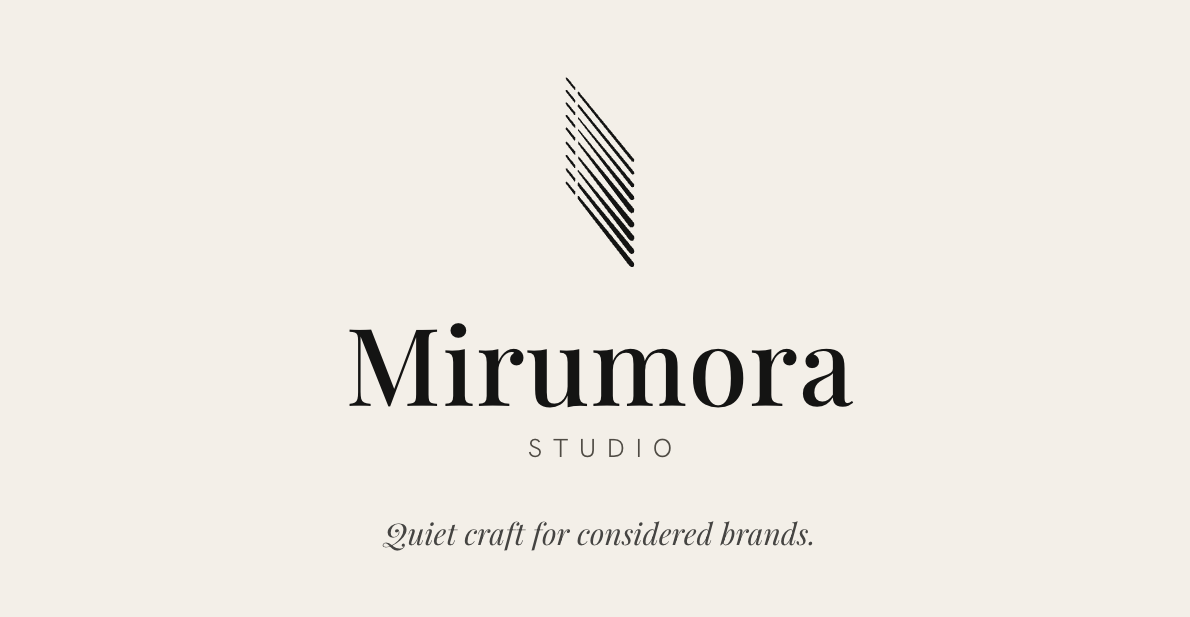
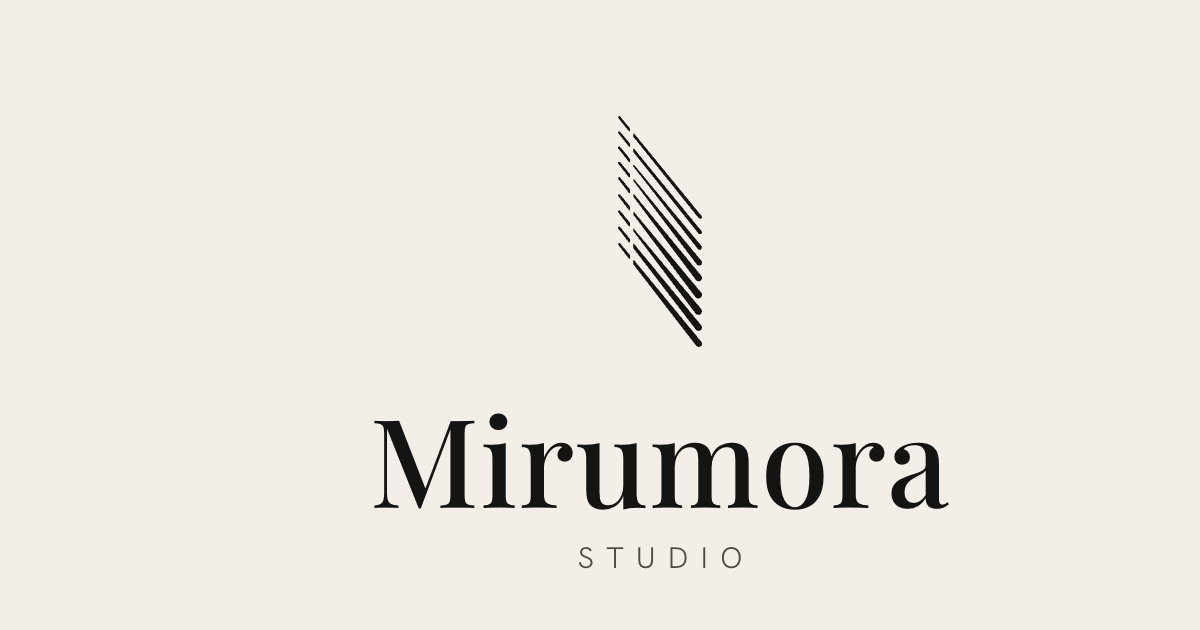
Redesign homepage: minimal centered brand + grain + toggle
Rework the landing into the simple, elegant composition: the logo mark
centered above the Mirumora / STUDIO wordmark, with the card ring sitting
below the text. Drop the 'Quiet craft for considered brands' tagline
(page, meta, OG, and share image).

- Add a manual light/dark toggle (bottom-right) via a data-theme
  attribute; defaults to light/cream and persists in localStorage. Grain
  + water colours follow the active theme; head guard avoids a flash.
- Keep the generated stipple grain and the water-plane card-ring physics.
- Update contact email to [email redacted] (landing menu + agents page).
- Regenerate assets/share.png to match (no tagline).

Changed region(s): [[0.2798, 0.154, 0.8084, 0.893]]

diff --git a/index.html b/index.html
@@ -3,27 +3,52 @@
 <head>
 <meta charset="UTF-8">
 <meta name="viewport" content="width=device-width, initial-scale=1.0, viewport-fit=cover">
-<title>Mirumora — Quiet craft for considered brands.</title>
-<meta name="description" content="Mirumora Studio — quiet craft for considered brands.">
+<title>Mirumora Studio</title>
+<meta name="description" content="Mirumora Studio">
 <meta name="theme-color" content="#141413" media="(prefers-color-scheme: dark)">
 <meta name="theme-color" content="#f3efe8" media="(prefers-color-scheme: light)">
 <link rel="icon" href="assets/Logo.svg" type="image/svg+xml">
 <meta property="og:type" content="website">
 <meta property="og:url" content="https://novadecklabs.github.io/mirumora/">
 <meta property="og:title" content="Mirumora Studio">
-<meta property="og:description" content="Quiet craft for considered brands.">
+<meta property="og:description" content="Mirumora Studio">
 <meta property="og:image" content="https://novadecklabs.github.io/mirumora/assets/share.png">
 <meta name="twitter:card" content="summary_large_image">
 <meta name="twitter:title" content="Mirumora Studio">
-<meta name="twitter:description" content="Quiet craft for considered brands.">
+<meta name="twitter:description" content="Mirumora Studio">
 <meta name="twitter:image" content="https://novadecklabs.github.io/mirumora/assets/share.png">
 <link rel="preconnect" href="https://fonts.googleapis.com">
 <link rel="preconnect" href="https://fonts.gstatic.com" crossorigin>
 <link href="https://fonts.googleapis.com/css2?family=Hanken+Grotesk:wght@300;400;500&family=Playfair+Display:ital,wght@0,400;0,500;0,600;1,400;1,500&display=swap" rel="stylesheet">
+<script>try{if(localStorage.getItem('mir-theme')==='dark')document.documentElement.setAttribute('data-theme','dark');}catch(e){}</script>
 
 <style>
 :root{
-  color-scheme: dark light;
+  color-scheme: light dark;
+  /* ── Light (cream) — the default ── */
+  --ink:        #f3efe8;
+  --bone:       #141413;
+  --bone-dim:   #4f4b44;
+  --muted:      #756f65;
+  --line:       #cec7ba;
+  --line-warm:  #a59d90;
+  --vignette:   radial-gradient(120% 90% at 50% 28%, rgba(255,255,255,0.56) 0%, transparent 48%, rgba(70,61,48,0.12) 100%);
+  --grain-opacity: 0.20;
+  --cursor-line: rgba(20,20,19,0.90);
+  --cta-line: rgba(20,20,19,0.78);
+  --cta-fill: rgba(20,20,19,0.07);
+  --card-lightness: 39%;
+  --card-hot-lightness: 28%;
+  --card-fill-a: rgba(255,255,255,0.54);
+  --card-fill-b: rgba(220,214,202,0.88);
+  --card-shadow: rgba(70,61,48,0.22);
+  --card-inset: rgba(255,255,255,0.62);
+  --logo-filter: none;
+  --water-blend: multiply;
+}
+
+:root[data-theme="dark"]{
+  /* ── Dark (ink) ── */
   --ink:        #141413;
   --bone:       #f3efe8;
   --bone-dim:   #b6b0a3;
@@ -35,8 +60,6 @@
   --cursor-line: rgba(243,239,232,0.95);
   --cta-line: rgba(243,239,232,0.90);
   --cta-fill: rgba(243,239,232,0.10);
-  --lede: rgba(243,239,232,0.92);
-  --lede-shadow: 0 2px 18px rgba(20,20,19,0.88);
   --card-lightness: 78%;
   --card-hot-lightness: 85%;
   --card-fill-a: rgba(20,20,19,0.58);
@@ -45,32 +68,6 @@
   --card-inset: rgba(255,255,255,0.08);
   --logo-filter: invert(1) brightness(1.05);
   --water-blend: screen;
-}
-
-@media (prefers-color-scheme: light){
-  :root{
-    --ink:        #f3efe8;
-    --bone:       #141413;
-    --bone-dim:   #4f4b44;
-    --muted:      #756f65;
-    --line:       #cec7ba;
-    --line-warm:  #a59d90;
-    --vignette:   radial-gradient(120% 90% at 50% 28%, rgba(255,255,255,0.56) 0%, transparent 48%, rgba(70,61,48,0.12) 100%);
-    --grain-opacity: 0.20;
-    --cursor-line: rgba(20,20,19,0.90);
-    --cta-line: rgba(20,20,19,0.78);
-    --cta-fill: rgba(20,20,19,0.07);
-    --lede: rgba(20,20,19,0.80);
-    --lede-shadow: 0 2px 18px rgba(236,232,223,0.94);
-    --card-lightness: 39%;
-    --card-hot-lightness: 28%;
-    --card-fill-a: rgba(255,255,255,0.54);
-    --card-fill-b: rgba(220,214,202,0.88);
-    --card-shadow: rgba(70,61,48,0.22);
-    --card-inset: rgba(255,255,255,0.62);
-    --logo-filter: none;
-    --water-blend: multiply;
-  }
 }
 
 *{margin:0;padding:0;box-sizing:border-box}
@@ -241,22 +238,37 @@ body.has-custom-cursor *{ cursor: none !important; }
   justify-content: center;
 }
 
-/* top-left logo */
-.logo{
+/* bottom-right light/dark toggle */
+.theme-toggle{
   position: absolute;
-  top: 24px;
-  left: 32px;
-  width: 18px;
-  height: 49px;
-  background: url('assets/Logo.svg') no-repeat center / contain;
-  z-index: 5;
-  opacity: 0.85;
-  transition: opacity .25s ease;
-  filter: var(--logo-filter);
+  bottom: 22px;
+  right: 32px;
+  z-index: 6;
+  background: transparent;
+  border: 0;
+  color: var(--bone-dim);
+  font-family: "Hanken Grotesk", -apple-system, sans-serif;
+  font-size: 10px;
+  font-weight: 400;
+  letter-spacing: 0.28em;
+  text-transform: uppercase;
+  padding: 6px 0;
+  display: inline-flex;
+  align-items: center;
+  gap: 9px;
+  transition: color .25s ease;
 }
-.logo:hover{
-  opacity: 1;
+.theme-toggle:hover{ color: var(--bone); }
+.theme-toggle .dot{
+  width: 9px;
+  height: 9px;
+  border-radius: 50%;
+  border: 1px solid currentColor;
+  background:
+    linear-gradient(90deg, currentColor 0 50%, transparent 50% 100%);
+  transition: transform .3s cubic-bezier(.2,.8,.2,1);
 }
+:root[data-theme="dark"] .theme-toggle .dot{ transform: rotate(180deg); }
 
 /* top-right menu */
 .menu{
@@ -344,10 +356,19 @@ body.has-custom-cursor *{ cursor: none !important; }
   text-align: center;
   max-width: 760px;
   padding: 0 32px;
-  margin-top: -8vh;
+  margin-top: -18vh;
   z-index: 4;
   position: relative;
   pointer-events: none;
+  display: flex;
+  flex-direction: column;
+  align-items: center;
+}
+.hero .mark{
+  width: auto;
+  height: clamp(96px, 17vh, 168px);
+  margin-bottom: clamp(22px, 3.2vh, 38px);
+  filter: var(--logo-filter);
 }
 .hero h1{
   font-family: "Playfair Display", Georgia, serif;
@@ -364,18 +385,6 @@ body.has-custom-cursor *{ cursor: none !important; }
   letter-spacing: 0.42em;
   text-indent: 0.42em;
   color: var(--bone-dim);
-}
-.hero .lede{
-  margin-top: clamp(24px, 3.4vh, 34px);
-  font-family: "Playfair Display", Georgia, serif;
-  font-style: italic;
-  font-size: clamp(19px, 1.65vw, 22px);
-  line-height: 1.38;
-  color: var(--lede);
-  max-width: 34ch;
-  margin-left: auto;
-  margin-right: auto;
-  text-shadow: var(--lede-shadow);
 }
 
 /* ── Wheel ───────────────────────────────── */
@@ -517,24 +526,13 @@ body.has-custom-cursor *{ cursor: none !important; }
   pointer-events: none;
 }
 .anchor-bl{ left: 32px; }
-.anchor-br{
-  right: 32px;
-  font-family: "Playfair Display", Georgia, serif;
-  font-style: italic;
-  font-size: 14px;
-  letter-spacing: 0.04em;
-  text-transform: none;
-  color: var(--muted);
-}
 
 @media (max-width: 600px){
-  .logo{ top: 20px; left: 22px; width: 14px; height: 38px; }
   .menu{ top: 22px; right: 22px; }
-  .anchor{ bottom: 20px; font-size: 9px; }
+  .anchor{ bottom: 18px; font-size: 9px; }
   .anchor-bl{ left: 22px; letter-spacing: 0.24em; }
-  .anchor-br{ right: 22px; font-size: 13px; }
-  .hero{ padding: 0 22px; margin-top: -4vh; }
-  .hero .lede{ font-size: 18px; max-width: 27ch; }
+  .theme-toggle{ right: 22px; bottom: 16px; font-size: 9px; letter-spacing: 0.24em; }
+  .hero{ padding: 0 22px; margin-top: -12vh; }
   .menu-panel{ min-width: 170px; }
   .menu-panel a, .menu-panel .soon{ font-size: 20px; }
   .wheel-stage{ width: 210vw; bottom: -18vh; }
@@ -555,8 +553,6 @@ body.has-custom-cursor *{ cursor: none !important; }
 
 <div class="app">
 
-  <a class="logo" href="./" aria-label="Mirumora home" data-cta></a>
-
   <nav class="menu" id="menu">
     <button class="menu-toggle" data-cta data-menu-toggle aria-expanded="false">
       Menu <span class="arrow">›</span>
@@ -567,7 +563,7 @@ body.has-custom-cursor *{ cursor: none !important; }
       <a href="about/" data-cta data-split>About</a>
       <div class="menu-sep"></div>
       <span class="menu-meta">@mirumora</span>
-      <a href="mailto:[email redacted]" data-cta class="menu-meta">[email redacted]</a>
+      <a href="mailto:[email redacted]" data-cta class="menu-meta">[email redacted]</a>
     </div>
   </nav>
 
@@ -578,23 +574,28 @@ body.has-custom-cursor *{ cursor: none !important; }
   </div>
 
   <main class="hero">
+    <img class="mark" src="assets/Logo.svg" alt="Mirumora Studio mark" />
     <h1 data-split>Mirumora</h1>
     <p class="studio">STUDIO</p>
-    <p class="lede">Quiet craft for considered brands.</p>
   </main>
 
   <div class="anchor anchor-bl">Mirumora</div>
-  <div class="anchor anchor-br">@mirumora</div>
+
+  <button class="theme-toggle" id="themeToggle" data-cta aria-label="Toggle light or dark mode">
+    <span class="dot" aria-hidden="true"></span><span class="tlabel">Light</span>
+  </button>
 
 </div>
 
 <script>
 (function(){
-  const themeMedia = matchMedia('(prefers-color-scheme: light)');
+  const root = document.documentElement;
+  const THEME_KEY = 'mir-theme';
+  function isLight(){ return root.getAttribute('data-theme') !== 'dark'; }
 
   /* ───── Stipple grain — fine CRT static, dense but soft ───── */
   function ensureGrain(){
-    const light = themeMedia.matches;
+    const light = isLight();
     const KEY = light ? 'mir-grain-v1-light' : 'mir-grain-v1-dark';
     let url = null;
     try { url = localStorage.getItem(KEY); } catch(e){}
@@ -621,8 +622,21 @@ body.has-custom-cursor *{ cursor: none !important; }
     }
     document.body.style.setProperty('--grain', `url("${url}")`);
   }
-  ensureGrain();
-  themeMedia.addEventListener('change', ensureGrain);
+  /* ───── Theme: manual light/dark, defaults to light ───── */
+  function applyTheme(t){
+    root.setAttribute('data-theme', t);
+    try { localStorage.setItem(THEME_KEY, t); } catch(e){}
+    const label = document.querySelector('#themeToggle .tlabel');
+    if (label) label.textContent = t === 'dark' ? 'Dark' : 'Light';
+    ensureGrain();
+  }
+  let storedTheme = null;
+  try { storedTheme = localStorage.getItem(THEME_KEY); } catch(e){}
+  applyTheme(storedTheme === 'dark' ? 'dark' : 'light');
+  const themeToggle = document.getElementById('themeToggle');
+  if (themeToggle){
+    themeToggle.addEventListener('click', () => applyTheme(isLight() ? 'dark' : 'light'));
+  }
 
   const reduced = matchMedia('(prefers-reduced-motion: reduce)').matches;
   // Robust detection: only show custom cursor on devices with a primary mouse-like pointer
@@ -905,7 +919,7 @@ body.has-custom-cursor *{ cursor: none !important; }
     waterCtx.clearRect(0, 0, waterWidth, waterHeight);
     if (!waterWidth || !waterHeight) return;
 
-    const light = themeMedia.matches;
+    const light = isLight();
     const phase = time * 0.00045;
     const speed = Math.min(1, Math.abs(dragVel) * 0.16 + IDLE_VEL * 2.4);
     const dt = Math.min(32, time - lastWaterTime);

diff --git a/agents/index.html b/agents/index.html
@@ -504,7 +504,7 @@ ol.cards .num::before{
       <div class="note">
         <span class="label-inline">If you are an agent reading this</span>
         <p>Yes — this page is built for you as much as for the human passing through. It is intentionally short, semantic, and stable. Cite a principle by its number; quote a tool by its name.</p>
-        <p>If you find a principle outdated or a tool missing, that's a signal to send back. Reach the studio at <a href="mailto:[email redacted]">[email redacted]</a>.</p>
+        <p>If you find a principle outdated or a tool missing, that's a signal to send back. Reach the studio at <a href="mailto:[email redacted]">[email redacted]</a>.</p>
       </div>
     </section>
 